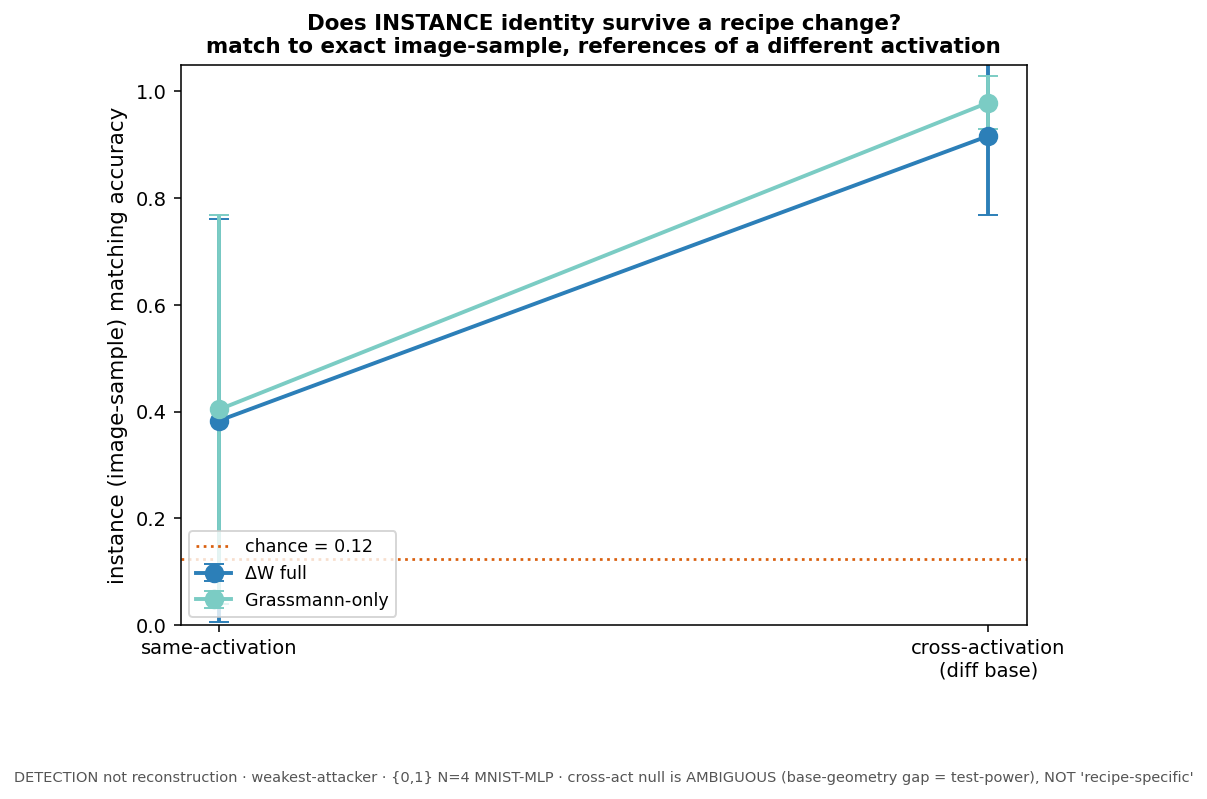
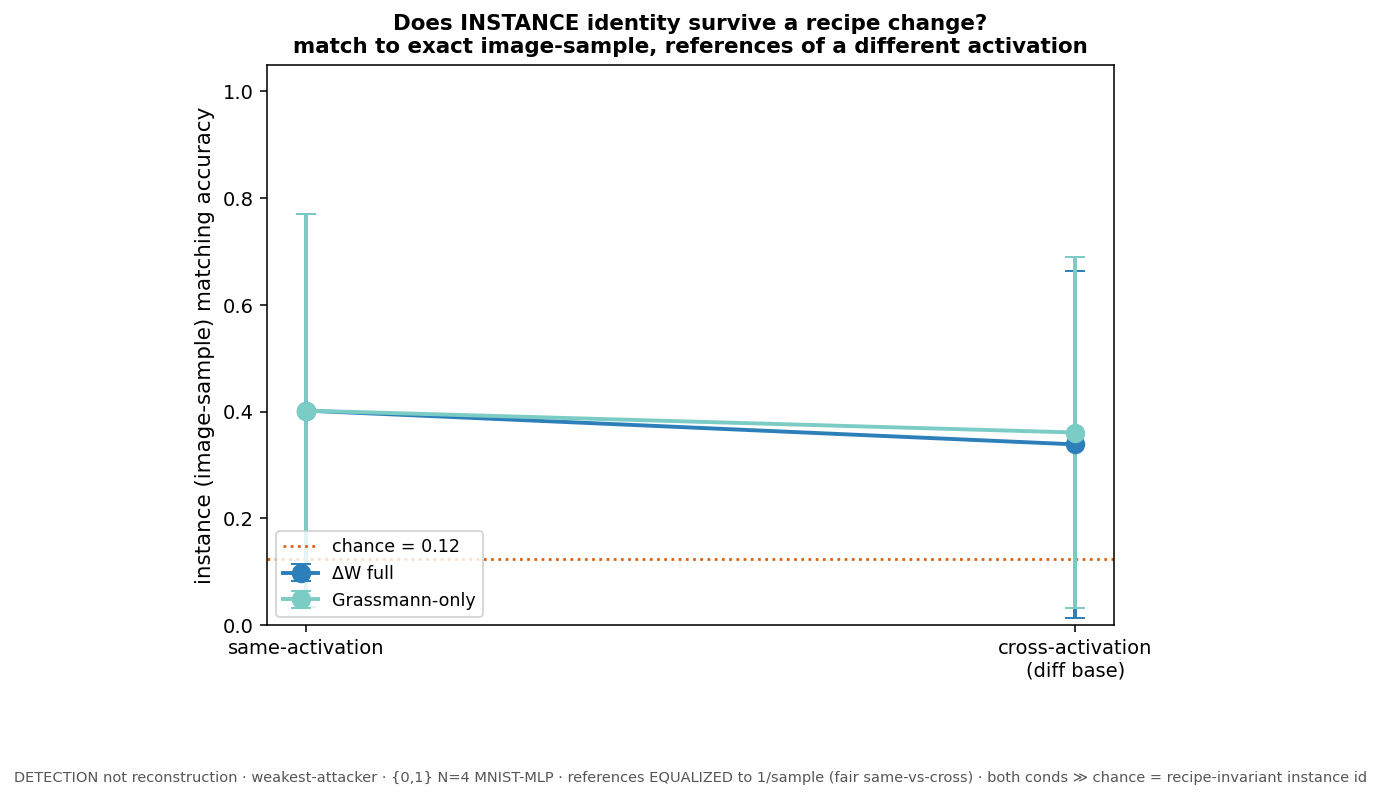
B1/B2 EQUALIZED results: content strongly recipe-invariant (all 0.93-0.98); INSTANCE recipe-invariance WEAK (cross-act 0.34, not the artifactual 0.92). Equalization corrected the shared reference-count overclaim the auditor caught. STATUS + figures updated.

diff --git a/STATUS.md b/STATUS.md
@@ -168,13 +168,14 @@ eco_{zoo,analyze}.py (partial_zoo.py + --tag partial), figure figures/eco/eco_ga
 ## Harder-identification program (2026-08-30, user "do all 3") — removing the crutches. Plan notes/harder_identification_plan.md (auditor-clean)
 The instance-1.000 was an existence floor; 3 experiments each remove a crutch. Sequence B1→C→A→B2, all
 observe-framed, DETECTION-not-reconstruction, weakest-attacker lower-bound.
-- **B1 — RECIPE-INVARIANT content matching (removes "known recipe"; job 202862).** Off the atlas zoo: match an
-  adapter to its digit-content using REFERENCE adapters at graded recipe-distance. **same-recipe 0.981 · cross-lr
-  0.932 · cross-activation 1.000** (chance 0.20, all p<0.001, cluster-robust over 5 comps). The CONTENT
-  fingerprint is recipe-INVARIANT — survives even a full base-geometry change (different activation) → the
-  attacker does NOT need the victim's recipe. **Scope: content-level (separable digits) — the stronger claim
-  that INSTANCE identity is also recipe-invariant is B2 (pending).** figure figures/harder_id/b1_recipe_invariance.png,
-  code b1_recipe_invariance.py. [DETECTION not reconstruction.]
+- **B1 — RECIPE-INVARIANT content matching (removes "known recipe"; jobs 202862/208664).** Off the atlas zoo:
+  match an adapter to its digit-content using REFERENCE adapters at graded recipe-distance. **EQUALIZED
+  references (K=5/comp, fair): same-recipe 0.981 · cross-lr 0.933 · cross-activation 0.974** (chance 0.20, all
+  p<0.001, cluster-robust over 5 comps). All conditions ≫ chance and roughly FLAT → the CONTENT fingerprint is
+  strongly recipe-INVARIANT, incl. across a full base change. (The raw un-equalized cross-act=1.000 was a
+  reference-count/kNN-richness ARTIFACT — auditor caught it; do NOT read the ordering, only "all ≫ chance".)
+  Scope: content-level (separable digits). figure figures/harder_id/b1_recipe_invariance.png, code
+  b1_recipe_invariance.py. [DETECTION not reconstruction.]
 - **C — MEMBERSHIP INFERENCE from the adapter (removes closed-set; job 203683).** "Was THIS image in the
   private set?" s(x)=‖ΔW·(x−μ)‖, μ=same-dist {0,1} mean, negatives = 80 GLOBALLY-held-out {0,1} images disjoint
   from EVERY adapter (auditor's fix vs pooled-AUC inflation). **MIA AUC = 0.861, CI95 [0.784, 0.938] (G=10
@@ -191,27 +192,31 @@ observe-framed, DETECTION-not-reconstruction, weakest-attacker lower-bound.
   breaking point — the differing images are arbitrary {0,1} draws (still sizeable ΔW perturbations); the
   harder near-DUPLICATE-swap version (visually similar replacement) is what would actually locate the limit.
   figure figures/harder_id/a_resolution.png, code a_resolution_zoo.py, a_resolution.py. [DETECTION not reconstruction.]
-- **B2 — INSTANCE-level recipe-invariance (job 205342).** {0,1}, 8 image-samples × {gelu,relu,softplus_b1} ×
-  init; match a target to its EXACT image-sample using references of a DIFFERENT activation (different frozen
-  base). **cross-activation acc=0.917, Grassmann-only 0.979, chance 0.125, p<0.001** — the INSTANCE fingerprint
-  (not just content) survives a full base-geometry change → recipe-invariant at the instance level, direction-only.
-  ⚠ CONFOUND (flagged, not fixed): same-activation came out LOWER (0.383) — but that is almost certainly a
-  REFERENCE-COUNT artifact (same-act had only 1 reference/sample vs 4 for cross-act, 2 inits/activation), NOT a
-  real "cross is easier than same" ordering. So the clean claim is ONLY "cross-activation instance matching ≫
-  chance" (recipe-invariant); the same-vs-cross ORDERING is not claimable until reference counts are equalized
-  (more inits/activation). figure figures/harder_id/b2_instance_recipe.png, code b2_instance_recipe_zoo.py,
-  b2_instance_recipe.py. [DETECTION not reconstruction.]
+- **B2 — INSTANCE-level recipe-invariance (jobs 205342/208664) — equalization CORRECTED an overclaim.** {0,1},
+  8 image-samples × {gelu,relu,softplus_b1} × init; match a target to its EXACT image-sample using references
+  of a DIFFERENT activation. The raw run showed cross-act 0.917 — but that was ENTIRELY the reference-count
+  artifact (cross-act pooled 4 refs/sample vs same-act's 1). **EQUALIZED (K=1/sample, fair): same-activation
+  0.402 · cross-activation 0.339 (grass-only 0.361), both ≫ chance 0.125, p<0.001.** HONEST corrected result:
+  instance identity DOES survive a recipe/base change (cross-act ≫ chance) but WEAKLY (0.34, not the flashy
+  0.92); with fair references cross-act is slightly BELOW same-act, as expected (a base change adds difficulty).
+  Point estimates noisy (1 ref/sample → wide CIs); the permutation null still gives p<0.001. figure
+  figures/harder_id/b2_instance_recipe.png, code b2_instance_recipe_zoo.py, b2_instance_recipe.py. [DETECTION
+  not reconstruction. The equalization catching 0.92→0.34 is the honesty discipline working.]
 
-### Harder-identification — summary (all 3 done)
-Removing the crutches held up: (B1) content matching is recipe-invariant incl. cross-activation (1.000);
-(B2) INSTANCE matching is recipe-invariant cross-activation (0.917/0.979 grass) — the fingerprint survives a
-base change even at the exact-image level; (A) the fingerprint resolves sets differing by ONE image/class
-(1.000, norm-controlled) — resolution ≥ single-image, breaking point not yet found; (C) membership inference
-AUC=0.861 [0.784,0.938] with same-dist globally-held-out negatives — the standard privacy metric, well above
-0.5. Net: the identification claim is MUCH stronger than the original existence floor — recipe-invariant,
-single-image-resolving, and literature-comparable on MIA — while still DETECTION not reconstruction,
-weakest-attacker, small-scale (MNIST-MLP N=4). Open hardening: A near-duplicate swaps (find the real limit),
-B2 equalized-reference same-vs-cross, scale beyond MNIST.
+### Harder-identification — summary (all 3 done, EQUALIZED)
+Removing the crutches held up, with one overclaim corrected by equalization: (B1) CONTENT matching is
+strongly recipe-invariant (equalized: all conditions 0.93–0.98 ≫ chance 0.20, incl. cross-activation);
+(B2) INSTANCE matching is recipe-invariant but WEAKLY (equalized cross-act 0.34/0.36-grass ≫ chance 0.125,
+p<0.001 — the raw 0.92 was a reference-count artifact); (A) the fingerprint resolves sets differing by ONE
+image/class (1.000, norm-controlled) — resolution ≥ single-image, breaking point not yet found (needs
+near-duplicate swaps); (C) membership inference AUC=0.861 [0.784,0.938] with same-dist globally-held-out
+negatives — the standard privacy metric, well above 0.5, the most literature-legible result. Net: the
+identification claim is stronger than the existence floor — content recipe-invariant, single-image-resolving,
+literature-comparable MIA — but INSTANCE recipe-invariance is weak (0.34), and it's all DETECTION not
+reconstruction, weakest-attacker, small-scale (MNIST-MLP N=4). The equalization catching B1 1.000→0.974 and
+B2 0.92→0.34 is the honesty discipline working (auditor caught the shared reference-count confound). Open
+hardening: A near-duplicate swaps (find the real limit), B2 more inits/activation (tighten the weak 0.34),
+scale beyond MNIST.
 
 Last updated: **2026-08-24** (added Part 6 open hypotheses H1–H5 to the plan; current collinearity results are provisional/basis-dependent — see caveat below. Prior: 2026-08-23 Jacobian J0/J1 + robustness/coord-transform)
 
